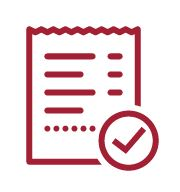
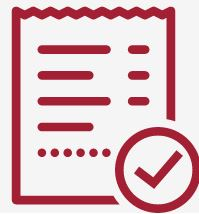
fix styles

diff --git a/frontend/src/components/createaccount.js b/frontend/src/components/createaccount.js
@@ -86,11 +86,11 @@ function CreateAccount() {
       actions={
         <div>
           <InputLabel>Name </InputLabel>
-          <input type="input" className="form-control" id="name" placeholder="Enter name" value={name} onChange={e => setName(e.currentTarget.value)} /><br />
+          <input type="input" maxlength="6" className="form-control" id="name" placeholder="Enter name" value={name} onChange={e => setName(e.currentTarget.value)} /><br />
           <InputLabel>Email Adress </InputLabel>
-          <input type="input" className="form-control" id="email" placeholder="Enter email" value={email} onChange={e => setEmail(e.currentTarget.value)} /><br />
+          <input type="input" maxlength="15" className="form-control" id="email" placeholder="Enter email" value={email} onChange={e => setEmail(e.currentTarget.value)} /><br />
           <InputLabel>Password </InputLabel>
-          <input type="password" className="form-control" id="password" placeholder="Enter password" value={password} onChange={e => setPassword(e.currentTarget.value)} /><br />
+          <input type="password" maxLength = "10" className="form-control" id="password" placeholder="Enter password" value={password} onChange={e => setPassword(e.currentTarget.value)} /><br />
           <Button variant='contained' type="submit" color='primary' disabled={!validation} onClick={handleCreate}>Create Account</Button>
         </div>
       }

diff --git a/frontend/src/components/Auth/Login/index.jsx b/frontend/src/components/Auth/Login/index.jsx
@@ -89,7 +89,7 @@ export const Login = () => {
                   <br/>
                   <span style={{color: 'black'}}> Do not have an account?</span>
                   <span><a style={{color: '#a31f34'}} href = "http://padma-vel-full-stack-bank-app.s3-website-us-east-1.amazonaws.com/createAccount"> Sign-up</a> </span>
-                  {/* http://localhost:3000/createAccount */}
+                  {/* http://localhost:3000/createAccount   http://padma-vel-full-stack-bank-app.s3-website-us-east-1.amazonaws.com/createAccount*/}
                 </div>
                
               </Form>

diff --git a/frontend/src/components/transfer.js b/frontend/src/components/transfer.js
@@ -150,7 +150,7 @@ function Transfer() {
                 <CardMedia
                   component="img"
                   image={imge_s}
-                  sx={{ width: '20%', height: '20%', paddingTop: '3%', paddingRight: '8%' }}
+                  sx={{ width: '18%', height: '18%', paddingTop: '3%', paddingRight: '8%' }}
                   alt="Success page" />
             }
             actions={

diff --git a/frontend/src/components/withdraw.js b/frontend/src/components/withdraw.js
@@ -97,7 +97,7 @@ function Withdraw() {
         <CardMedia
           component="img"
           image={imge_s}
-          sx={{ width: '20%', height: '20%', paddingTop: '3%', paddingRight: '8%' }}
+          sx={{ width: '18%', height: '18%', paddingTop: '3%', paddingRight: '8%' }}
           alt="Success page" />
       }
       actions={

diff --git a/frontend/src/components/deposit.js b/frontend/src/components/deposit.js
@@ -89,7 +89,7 @@ function Deposit() {
         <CardMedia
           component="img"
           image={imge_s}
-          sx={{ width: '20%', height: '20%', paddingTop: '3%', paddingRight: '8%' }}
+          sx={{ width: '18%', height: '18%', paddingTop: '3%', paddingRight: '8%' }}
           alt="Success page" />
       }
       actions={

diff --git a/frontend/src/components/NavBar/navbar.jsx b/frontend/src/components/NavBar/navbar.jsx
@@ -15,7 +15,7 @@ const Container = styled.nav`
 const Logo = styled.img`
   padding: 16px;
   padding-left: 25px;
-  width: 86px;
+  width: 85px;
 `;
 const List = styled.ul`
   list-style-type: none;

diff --git a/README.md b/README.md
@@ -5,7 +5,7 @@ Client, Server, and Database
 
 http://padma-vel-full-stack-bank-app.s3-website-us-east-1.amazonaws.com/
 
-<img src='frontend/src/components/images/bestbank.JPG' width="800">
+<img src='frontend/src/components/images/r_bestbank.JPG' width="800">
 
 
 ## Description/Motivation: 
@@ -60,14 +60,14 @@ Implemented money transfer between the accounts, and admin user privilege, who c
 ## Future improvements:
 Create checking and savings accounts. Calculate interest rate, and pay bills.
 
-#### Login page
-<img src='frontend/src/components/images/r_login.JPG' width="800">
+#### Signup page
+<img src='frontend/src/components/images/r_signup.JPG' width="800">
 
 #### After signin
 <img src='frontend/src/components/images/r_afterlogin.JPG' width="800">
 
 #### Deposit
-<img src='frontend/src/components/images/r_deposit.JPG' width="800">
+<img src='frontend/src/components/images/r_withdraw.JPG' width="800">
 
 #### Transfer
 <img src='frontend/src/components/images/r_transfer.JPG' width="800">
